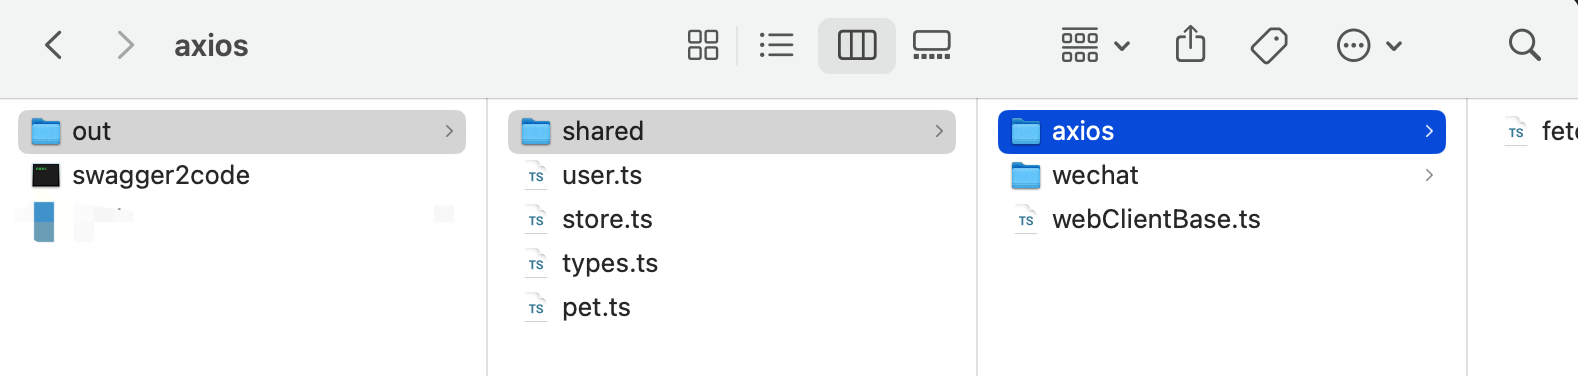
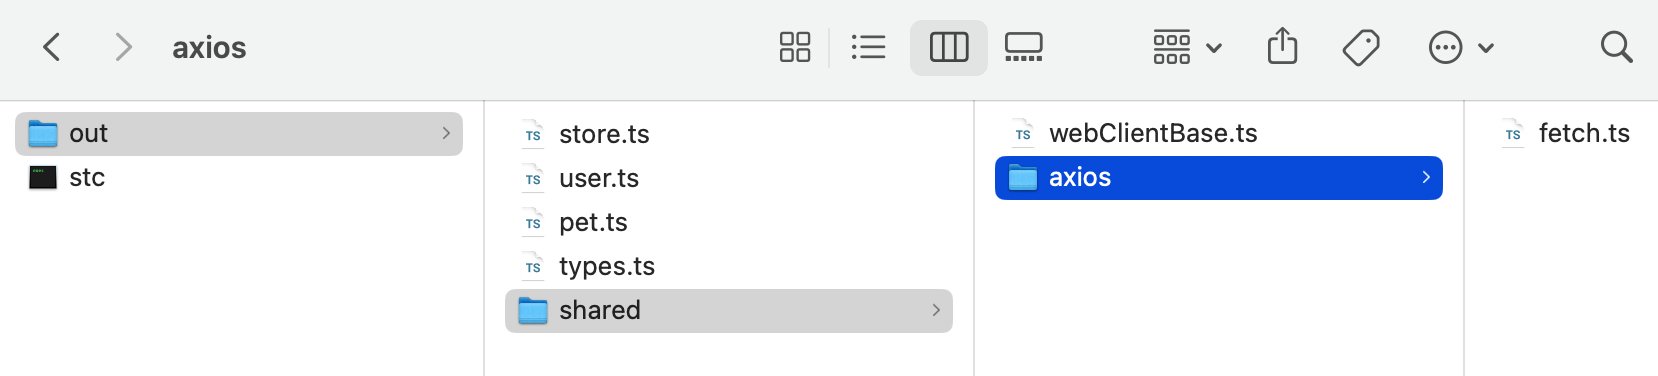
chore: 文件目录调整，修改 readme 图片

diff --git a/test/swagger-2.test.ts b/test/swagger-2.test.ts
@@ -13,6 +13,7 @@ Deno.test("测试-在命令行中", async () => {
   });
 
   const { code } = await command.output();
+  console.log(code)
   // console.assert("hello\n" === new TextDecoder().decode(stdout));
   // console.assert("world\n" === new TextDecoder().decode(stderr));
   assertEquals(0, code);
